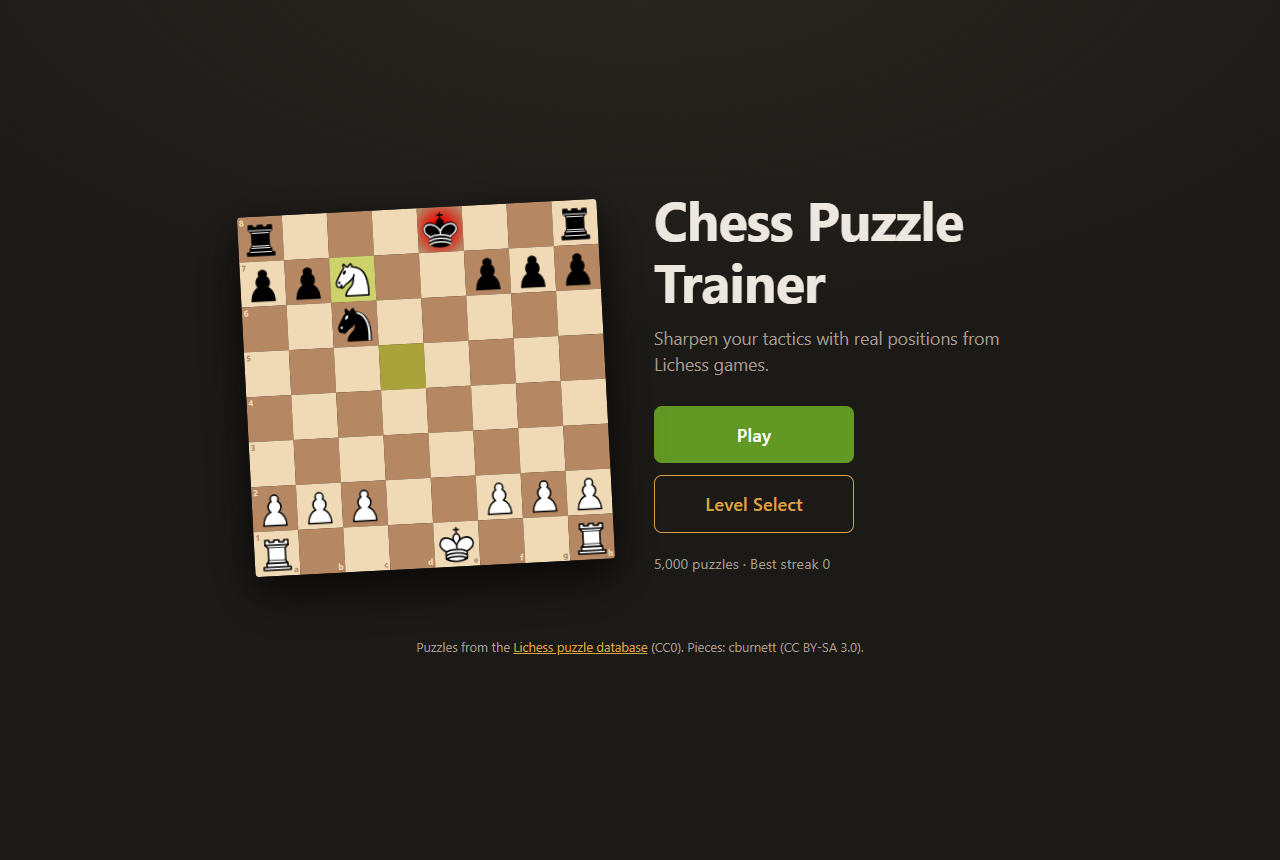
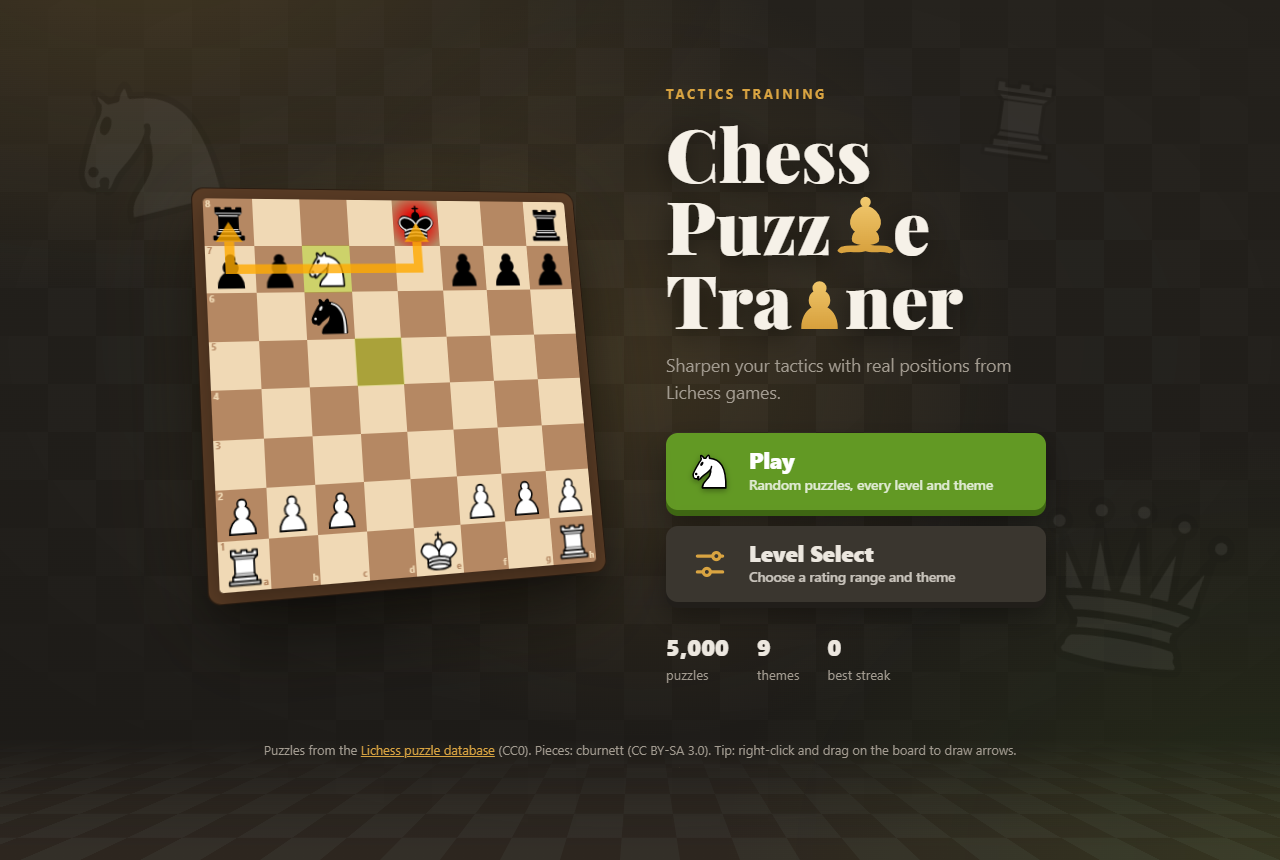
Redesign the menu screen
- Serif display title (Playfair Display) where the l and i of
  'Puzzle Trainer' are gold chess-piece silhouettes (bishop and pawn)
- Background: warm gradient with a faint chessboard texture on every
  screen; on the menu, a slowly scrolling board floor in perspective and
  drifting ghost pieces (motion disabled for prefers-reduced-motion)
- Framed, tilted showcase board with arrows illustrating a knight fork
- Chunky 3D-style Play and Level Select buttons with icons and subtitles
- Stats row: puzzle count, themes, best streak

diff --git a/css/style.css b/css/style.css
@@ -23,11 +23,26 @@
 body {
   margin: 0;
   min-height: 100vh;
+  /* Warm lamp-lit glow top-left, a hint of felt green bottom-right. */
   background:
-    radial-gradient(1200px 600px at 50% -10%, #2c2823 0%, transparent 70%),
-    var(--bg);
+    radial-gradient(900px 520px at 12% -8%, rgb(217 164 65 / 0.16), transparent 70%),
+    radial-gradient(800px 600px at 100% 100%, rgb(98 153 36 / 0.13), transparent 70%),
+    linear-gradient(180deg, #24211c 0%, var(--bg) 100%);
+  background-attachment: fixed;
   color: var(--text);
   font: 16px/1.5 system-ui, -apple-system, "Segoe UI", Roboto, sans-serif;
+}
+
+/* A faint chessboard texture behind every screen, fading out at the edges. */
+body::before {
+  content: "";
+  position: fixed;
+  inset: 0;
+  z-index: -1;
+  pointer-events: none;
+  background: repeating-conic-gradient(rgb(255 255 255 / 0.028) 0 25%, transparent 0 50%) 0 0 / 96px 96px;
+  -webkit-mask-image: radial-gradient(ellipse 80% 70% at 50% 40%, #000 20%, transparent 85%);
+  mask-image: radial-gradient(ellipse 80% 70% at 50% 40%, #000 20%, transparent 85%);
 }
 
 [hidden] { display: none !important; }
@@ -68,11 +83,8 @@ h1, h2, h3 { margin: 0; line-height: 1.15; }
 
 .btn-primary { background: var(--green); color: #fff; }
 .btn-primary:hover:not(:disabled) { background: var(--green-light); }
-.btn-secondary { background: transparent; border-color: var(--accent); color: var(--accent); }
-.btn-secondary:hover:not(:disabled) { background: rgb(217 164 65 / 0.12); }
 .btn-ghost { background: transparent; color: var(--text-muted); padding: 8px 12px; }
 .btn-ghost:hover:not(:disabled) { color: var(--text); background: var(--bg-hover); }
-.btn-large { font-size: 1.15rem; padding: 14px 28px; min-width: 200px; }
 
 .link-btn {
   font: inherit;
@@ -86,30 +98,159 @@ h1, h2, h3 { margin: 0; line-height: 1.15; }
 }
 
 /* ---------- menu ---------- */
-#menu { display: flex; flex-direction: column; align-items: center; justify-content: center; min-height: 100vh; }
+#menu {
+  position: relative;
+  display: flex;
+  flex-direction: column;
+  align-items: center;
+  justify-content: center;
+  min-height: 100vh;
+}
 
+/* Decorative background: a chessboard floor in perspective, a warm glow and
+   a few ghostly pieces drifting at the edges. */
+.menu-bg { position: fixed; inset: 0; overflow: hidden; pointer-events: none; }
+.menu-floor {
+  position: absolute;
+  left: -50%; right: -50%; bottom: 0;
+  height: 55%;
+  background: repeating-conic-gradient(var(--dark-square) 0 25%, var(--light-square) 0 50%) 0 0 / 120px 120px;
+  transform: perspective(420px) rotateX(58deg);
+  transform-origin: 50% 100%;
+  opacity: 0.11;
+  -webkit-mask-image: linear-gradient(to top, #000 5%, transparent 90%);
+  mask-image: linear-gradient(to top, #000 5%, transparent 90%);
+  animation: floor-scroll 16s linear infinite;
+}
+@keyframes floor-scroll { to { background-position: 0 120px; } }
+.menu-glow {
+  position: absolute;
+  left: 50%; top: 42%;
+  width: 70vmax; height: 70vmax;
+  translate: -50% -50%;
+  background: radial-gradient(circle, rgb(217 164 65 / 0.13), transparent 60%);
+}
+.ghost {
+  position: absolute;
+  opacity: 0.06;
+  animation: drift 12s ease-in-out infinite alternate;
+}
+.ghost-1 { width: 22vmin; top: 6%; left: 4%; rotate: -14deg; }
+.ghost-2 { width: 26vmin; bottom: 18%; right: 3%; rotate: 10deg; animation-delay: -4s; }
+.ghost-3 { width: 13vmin; top: 9%; right: 16%; rotate: 8deg; animation-delay: -7s; }
+.ghost-4 { width: 12vmin; bottom: 30%; left: 15%; rotate: -6deg; animation-delay: -2s; }
+@keyframes drift { to { transform: translateY(-22px); } }
+
+.menu-card, .credits { position: relative; z-index: 1; }
 .menu-card {
   display: flex;
   align-items: center;
-  gap: 48px;
+  gap: 72px;
   flex-wrap: wrap;
   justify-content: center;
 }
 
+.menu-board-wrap { perspective: 1000px; }
 .menu-board {
-  width: min(360px, 80vw);
-  transform: rotate(-3deg);
-  border-radius: 6px;
-  box-shadow: 0 20px 50px rgb(0 0 0 / 0.5);
+  width: min(380px, 80vw);
+  transform: rotateY(14deg) rotateX(8deg) rotate(-2deg);
+  border-radius: 4px;
+  /* A wooden frame and a long soft shadow. */
+  box-shadow:
+    0 0 0 10px #5a3c25,
+    0 0 0 11px #2b1d12,
+    0 40px 70px rgb(0 0 0 / 0.6),
+    0 0 90px rgb(217 164 65 / 0.12);
+  transition: transform 0.6s ease;
   pointer-events: none;
 }
+.menu-card:hover .menu-board { transform: rotateY(6deg) rotateX(4deg) rotate(-1deg); }
 
-.menu-content { max-width: 380px; }
-.menu-content h1 { font-size: clamp(2.4rem, 6vw, 3.4rem); letter-spacing: -0.02em; }
-.tagline { color: var(--text-muted); font-size: 1.1rem; margin: 12px 0 28px; }
-.menu-buttons { display: flex; flex-direction: column; gap: 12px; align-items: flex-start; }
+.menu-content { max-width: 400px; }
+.eyebrow {
+  margin: 0 0 12px;
+  color: var(--accent);
+  font-size: 0.8rem;
+  font-weight: 700;
+  letter-spacing: 0.22em;
+  text-transform: uppercase;
+}
+.title {
+  font-family: "Playfair Display", Georgia, "Times New Roman", serif;
+  font-weight: 900;
+  font-size: clamp(3rem, 8vw, 4.6rem);
+  line-height: 0.98;
+  color: #f6f1e8;
+  text-shadow: 0 6px 28px rgb(0 0 0 / 0.55);
+}
+.title-line { display: block; }
+/* Chess pieces standing in for letters: l -> bishop, i -> pawn.
+   The piece SVG is used as a mask, so it becomes a solid gold silhouette. */
+.glyph {
+  display: inline-block;
+  width: 1em;
+  height: 1em;
+  background: linear-gradient(180deg, #f5cf76 0%, #d39a35 100%);
+  -webkit-mask: var(--piece) center bottom / contain no-repeat;
+  mask: var(--piece) center bottom / contain no-repeat;
+}
+.glyph-l { --piece: url(../assets/pieces/wB.svg); height: 1em; vertical-align: -0.1em; margin: 0 -0.12em 0 -0.04em; }
+.glyph-i { --piece: url(../assets/pieces/wP.svg); height: 0.92em; vertical-align: -0.1em; margin: 0 -0.16em 0 -0.12em; }
+
+.tagline { color: var(--text-muted); font-size: 1.1rem; margin: 16px 0 28px; }
+
+.menu-buttons { display: flex; flex-direction: column; gap: 16px; }
+/* Big chunky buttons with a solid "3D" bottom edge that presses down. */
+.menu-btn {
+  display: flex;
+  align-items: center;
+  gap: 16px;
+  width: min(100%, 380px);
+  padding: 14px 20px;
+  border-radius: 12px;
+  text-align: left;
+  transition: background 0.15s, transform 0.08s, box-shadow 0.08s;
+}
+.menu-btn:hover:not(:disabled) { transform: translateY(-2px); }
+.menu-btn:active:not(:disabled) { transform: translateY(3px); }
+.menu-btn-play {
+  background: var(--green);
+  color: #fff;
+  box-shadow: 0 6px 0 #3e6713, 0 14px 28px rgb(0 0 0 / 0.35);
+}
+.menu-btn-play:hover:not(:disabled) { background: var(--green-light); }
+.menu-btn-play:active:not(:disabled) { box-shadow: 0 2px 0 #3e6713, 0 6px 12px rgb(0 0 0 / 0.35); }
+.menu-btn-levels {
+  background: #3a362f;
+  box-shadow: 0 6px 0 #211e1a, 0 14px 28px rgb(0 0 0 / 0.35);
+}
+.menu-btn-levels:hover:not(:disabled) { background: #45403a; }
+.menu-btn-levels:active:not(:disabled) { box-shadow: 0 2px 0 #211e1a, 0 6px 12px rgb(0 0 0 / 0.35); }
+.menu-btn-icon { width: 46px; height: 46px; flex: none; }
+img.menu-btn-icon { filter: drop-shadow(0 2px 3px rgb(0 0 0 / 0.35)); }
+svg.menu-btn-icon { fill: none; stroke: var(--accent); stroke-width: 2; stroke-linecap: round; padding: 4px; }
+svg.menu-btn-icon circle { fill: #3a362f; }
+.menu-btn-title { display: block; font-size: 1.35rem; font-weight: 800; line-height: 1.2; }
+.menu-btn-sub { display: block; font-size: 0.85rem; font-weight: 500; opacity: 0.8; }
+
+.menu-stats {
+  list-style: none;
+  display: flex;
+  gap: 28px;
+  margin: 28px 0 0;
+  padding: 0;
+  color: var(--text-muted);
+  font-size: 0.82rem;
+}
+.menu-stats strong {
+  display: block;
+  color: var(--text);
+  font-size: 1.45rem;
+  font-weight: 800;
+  font-variant-numeric: tabular-nums;
+}
 .menu-meta { color: var(--text-muted); font-size: 0.9rem; margin-top: 20px; }
-.credits { margin-top: 48px; font-size: 0.8rem; color: var(--text-muted); text-align: center; }
+.credits { margin-top: 56px; font-size: 0.8rem; color: var(--text-muted); text-align: center; }
 
 /* ---------- level select ---------- */
 .levels-panel { max-width: 720px; margin: 0 auto; padding: 20px 28px 32px; }
@@ -240,10 +381,11 @@ h1, h2, h3 { margin: 0; line-height: 1.15; }
   .puzzle-layout { flex-direction: column; align-items: center; }
   .board-wrap { width: min(100%, 560px); }
   .side-panel { flex: none; width: min(100%, 560px); }
-  .menu-board { width: min(280px, 70vw); }
-  .menu-card { gap: 28px; }
+  .menu-board { width: min(260px, 66vw); }
+  .menu-card { gap: 40px; padding-top: 16px; }
   .menu-content { text-align: center; }
-  .menu-buttons { align-items: center; }
+  .menu-buttons, .menu-stats { align-items: center; justify-content: center; }
+  .menu-btn { width: 100%; }
 }
 
 /* ---------- board ---------- */
@@ -335,3 +477,8 @@ h1, h2, h3 { margin: 0; line-height: 1.15; }
   transition: background-color 0.15s, border-radius 0.15s;
 }
 .promotion-choice:hover { background-color: #fff; border-radius: 12%; }
+
+@media (prefers-reduced-motion: reduce) {
+  .menu-floor, .ghost, .hl.hint { animation: none; }
+  .menu-board, .menu-btn { transition: none; }
+}

diff --git a/index.html b/index.html
@@ -6,27 +6,60 @@
   <title>Chess Puzzle Trainer</title>
   <meta name="description" content="Train chess tactics with real puzzles from the Lichess database.">
   <link rel="icon" href="assets/pieces/wN.svg" type="image/svg+xml">
+  <link rel="preconnect" href="https://fonts.googleapis.com">
+  <link rel="preconnect" href="https://fonts.gstatic.com" crossorigin>
+  <link rel="stylesheet" href="https://fonts.googleapis.com/css2?family=Playfair+Display:wght@700;900&display=swap">
   <link rel="stylesheet" href="css/style.css">
   <script type="module" src="js/app.js"></script>
 </head>
 <body>
   <!-- Menu -->
   <section id="menu" class="screen">
+    <div class="menu-bg" aria-hidden="true">
+      <div class="menu-floor"></div>
+      <div class="menu-glow"></div>
+      <img class="ghost ghost-1" src="assets/pieces/wN.svg" alt="">
+      <img class="ghost ghost-2" src="assets/pieces/wQ.svg" alt="">
+      <img class="ghost ghost-3" src="assets/pieces/wR.svg" alt="">
+      <img class="ghost ghost-4" src="assets/pieces/wB.svg" alt="">
+    </div>
+
     <div class="menu-card">
-      <div id="menu-board" class="menu-board" aria-hidden="true"></div>
+      <div class="menu-board-wrap">
+        <div id="menu-board" class="menu-board" aria-hidden="true"></div>
+      </div>
       <div class="menu-content">
-        <h1>Chess Puzzle<br>Trainer</h1>
+        <p class="eyebrow">Tactics training</p>
+        <!-- Some letters are drawn as chess pieces; aria-label gives screen readers the plain title. -->
+        <h1 class="title" aria-label="Chess Puzzle Trainer">
+          <span class="title-line" aria-hidden="true">Chess</span>
+          <span class="title-line" aria-hidden="true">Puzz<span class="glyph glyph-l"></span>e</span>
+          <span class="title-line title-accent" aria-hidden="true">Tra<span class="glyph glyph-i"></span>ner</span>
+        </h1>
         <p class="tagline">Sharpen your tactics with real positions from Lichess games.</p>
+
         <div class="menu-buttons">
-          <button id="play-btn" class="btn btn-primary btn-large" disabled>Play</button>
-          <button id="levels-btn" class="btn btn-secondary btn-large" disabled>Level Select</button>
+          <button id="play-btn" class="btn menu-btn menu-btn-play" disabled>
+            <img class="menu-btn-icon" src="assets/pieces/wN.svg" alt="">
+            <span><span class="menu-btn-title">Play</span><span class="menu-btn-sub">Random puzzles, every level and theme</span></span>
+          </button>
+          <button id="levels-btn" class="btn menu-btn menu-btn-levels" disabled>
+            <svg class="menu-btn-icon" viewBox="0 0 24 24" aria-hidden="true"><path d="M4 7h10M18 7h2M4 17h4M12 17h8" /><circle cx="16" cy="7" r="2.2" /><circle cx="10" cy="17" r="2.2" /></svg>
+            <span><span class="menu-btn-title">Level Select</span><span class="menu-btn-sub">Choose a rating range and theme</span></span>
+          </button>
         </div>
-        <p class="menu-meta"><span id="menu-status">Loading puzzles…</span></p>
+
+        <ul class="menu-stats">
+          <li><strong id="menu-count">–</strong> puzzles</li>
+          <li><strong>9</strong> themes</li>
+          <li><strong id="menu-best">0</strong> best streak</li>
+        </ul>
+        <p id="menu-status" class="menu-meta">Loading puzzles…</p>
       </div>
     </div>
     <footer class="credits">
       Puzzles from the <a href="https://database.lichess.org/#puzzles">Lichess puzzle database</a> (CC0).
-      Pieces: cburnett (CC BY-SA 3.0).
+      Pieces: cburnett (CC BY-SA 3.0). Tip: right-click and drag on the board to draw arrows.
     </footer>
   </section>
 

diff --git a/js/app.js b/js/app.js
@@ -36,7 +36,9 @@ function showScreen(id) {
 function goToMenu() {
   loadToken++; // cancel any puzzle animation in progress
   board.setInteractive(false);
-  $("menu-status").textContent = `${allPuzzles.length.toLocaleString()} puzzles · Best streak ${streak.best}`;
+  $("menu-count").textContent = allPuzzles.length.toLocaleString();
+  $("menu-best").textContent = streak.best;
+  $("menu-status").hidden = true;
   showScreen("menu");
 }
 
